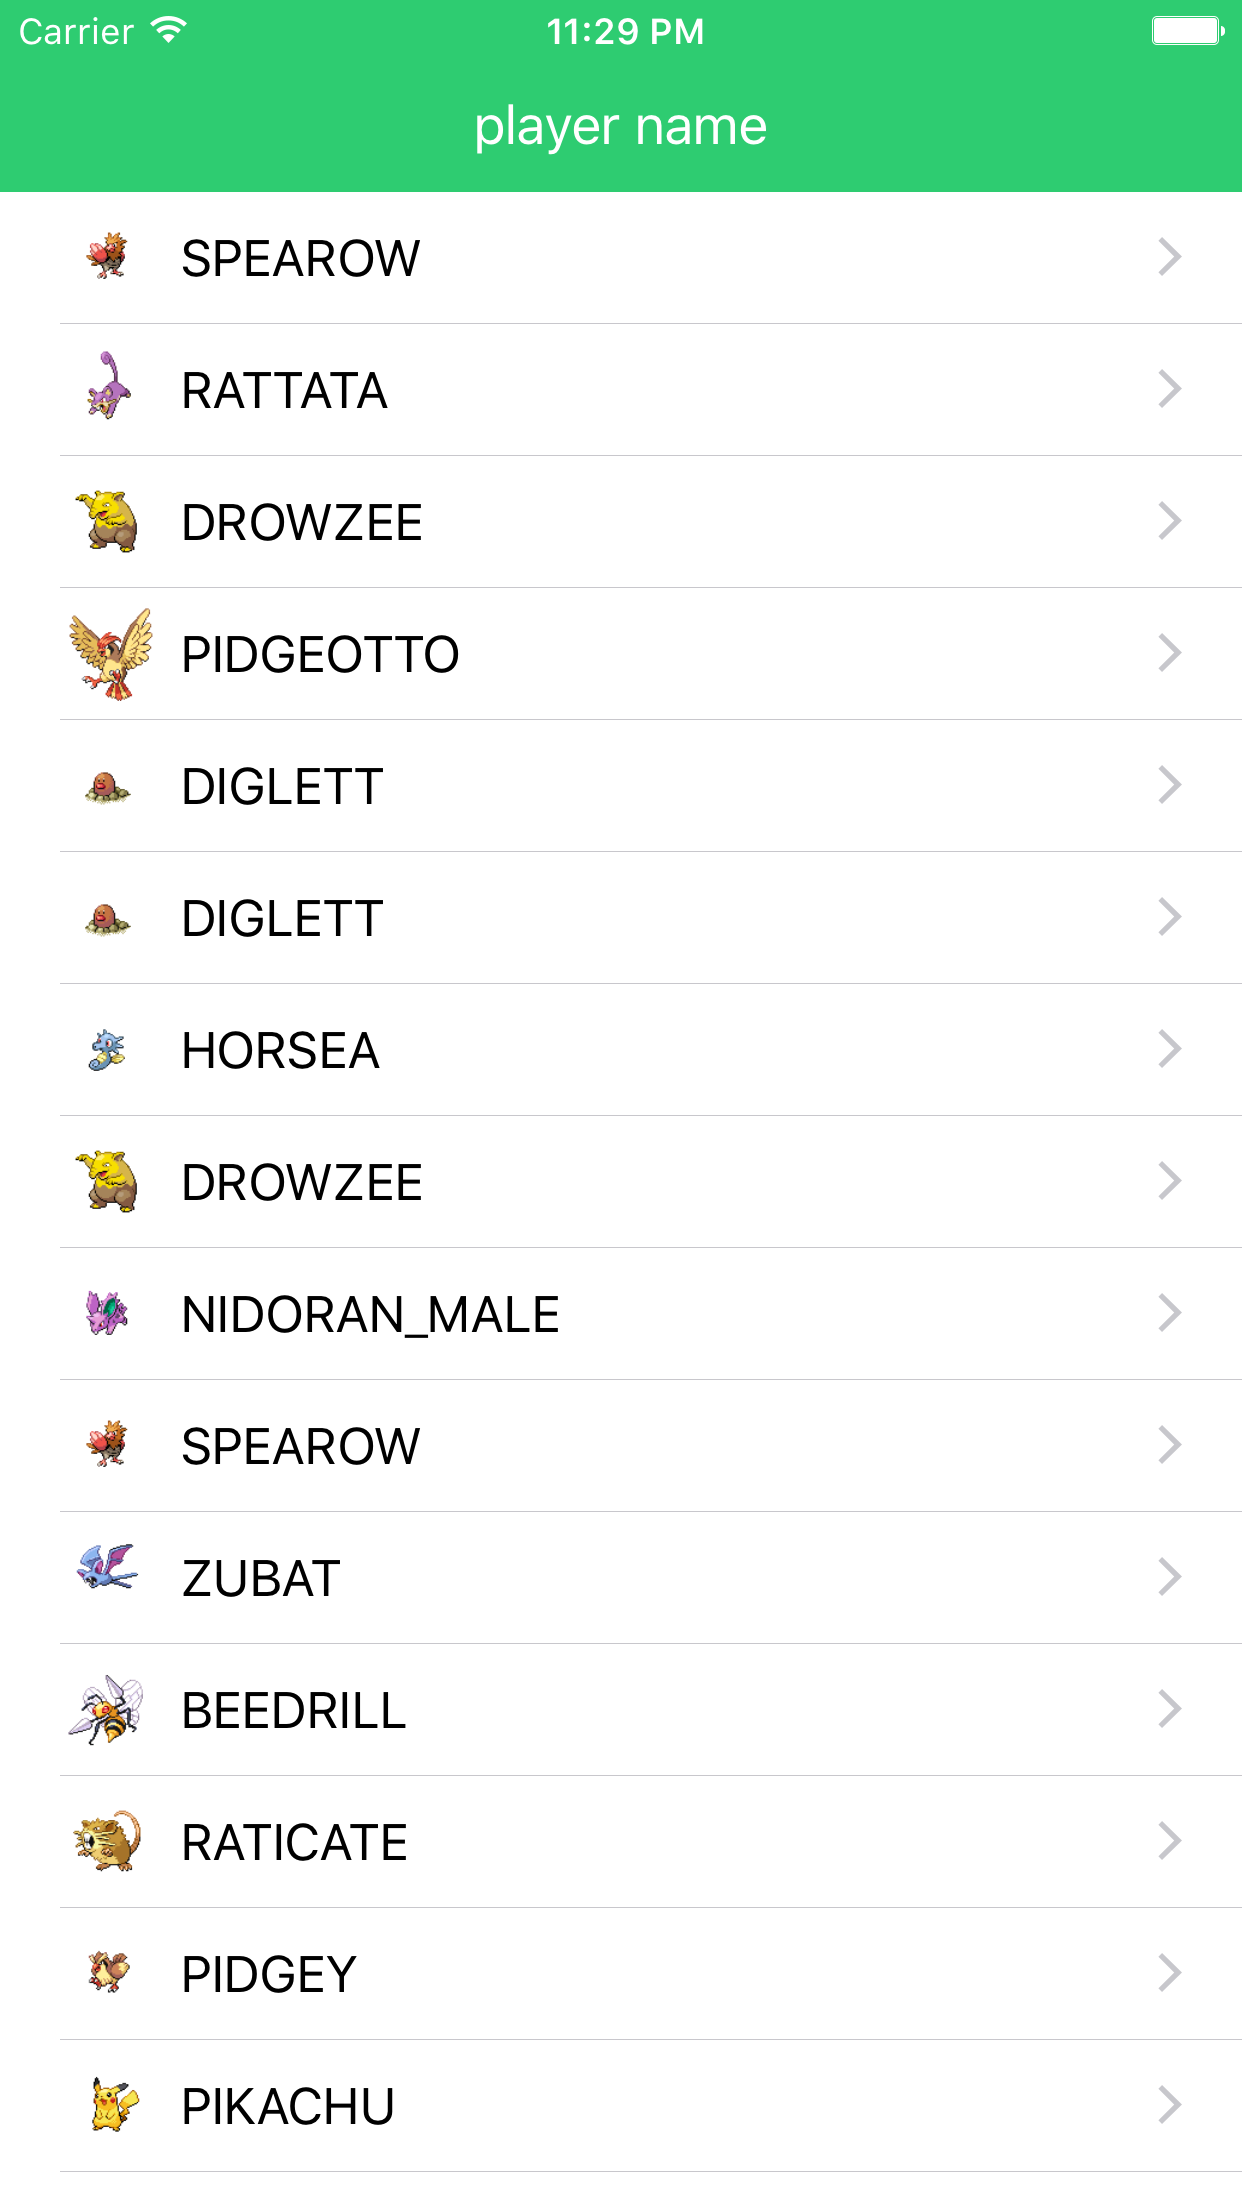
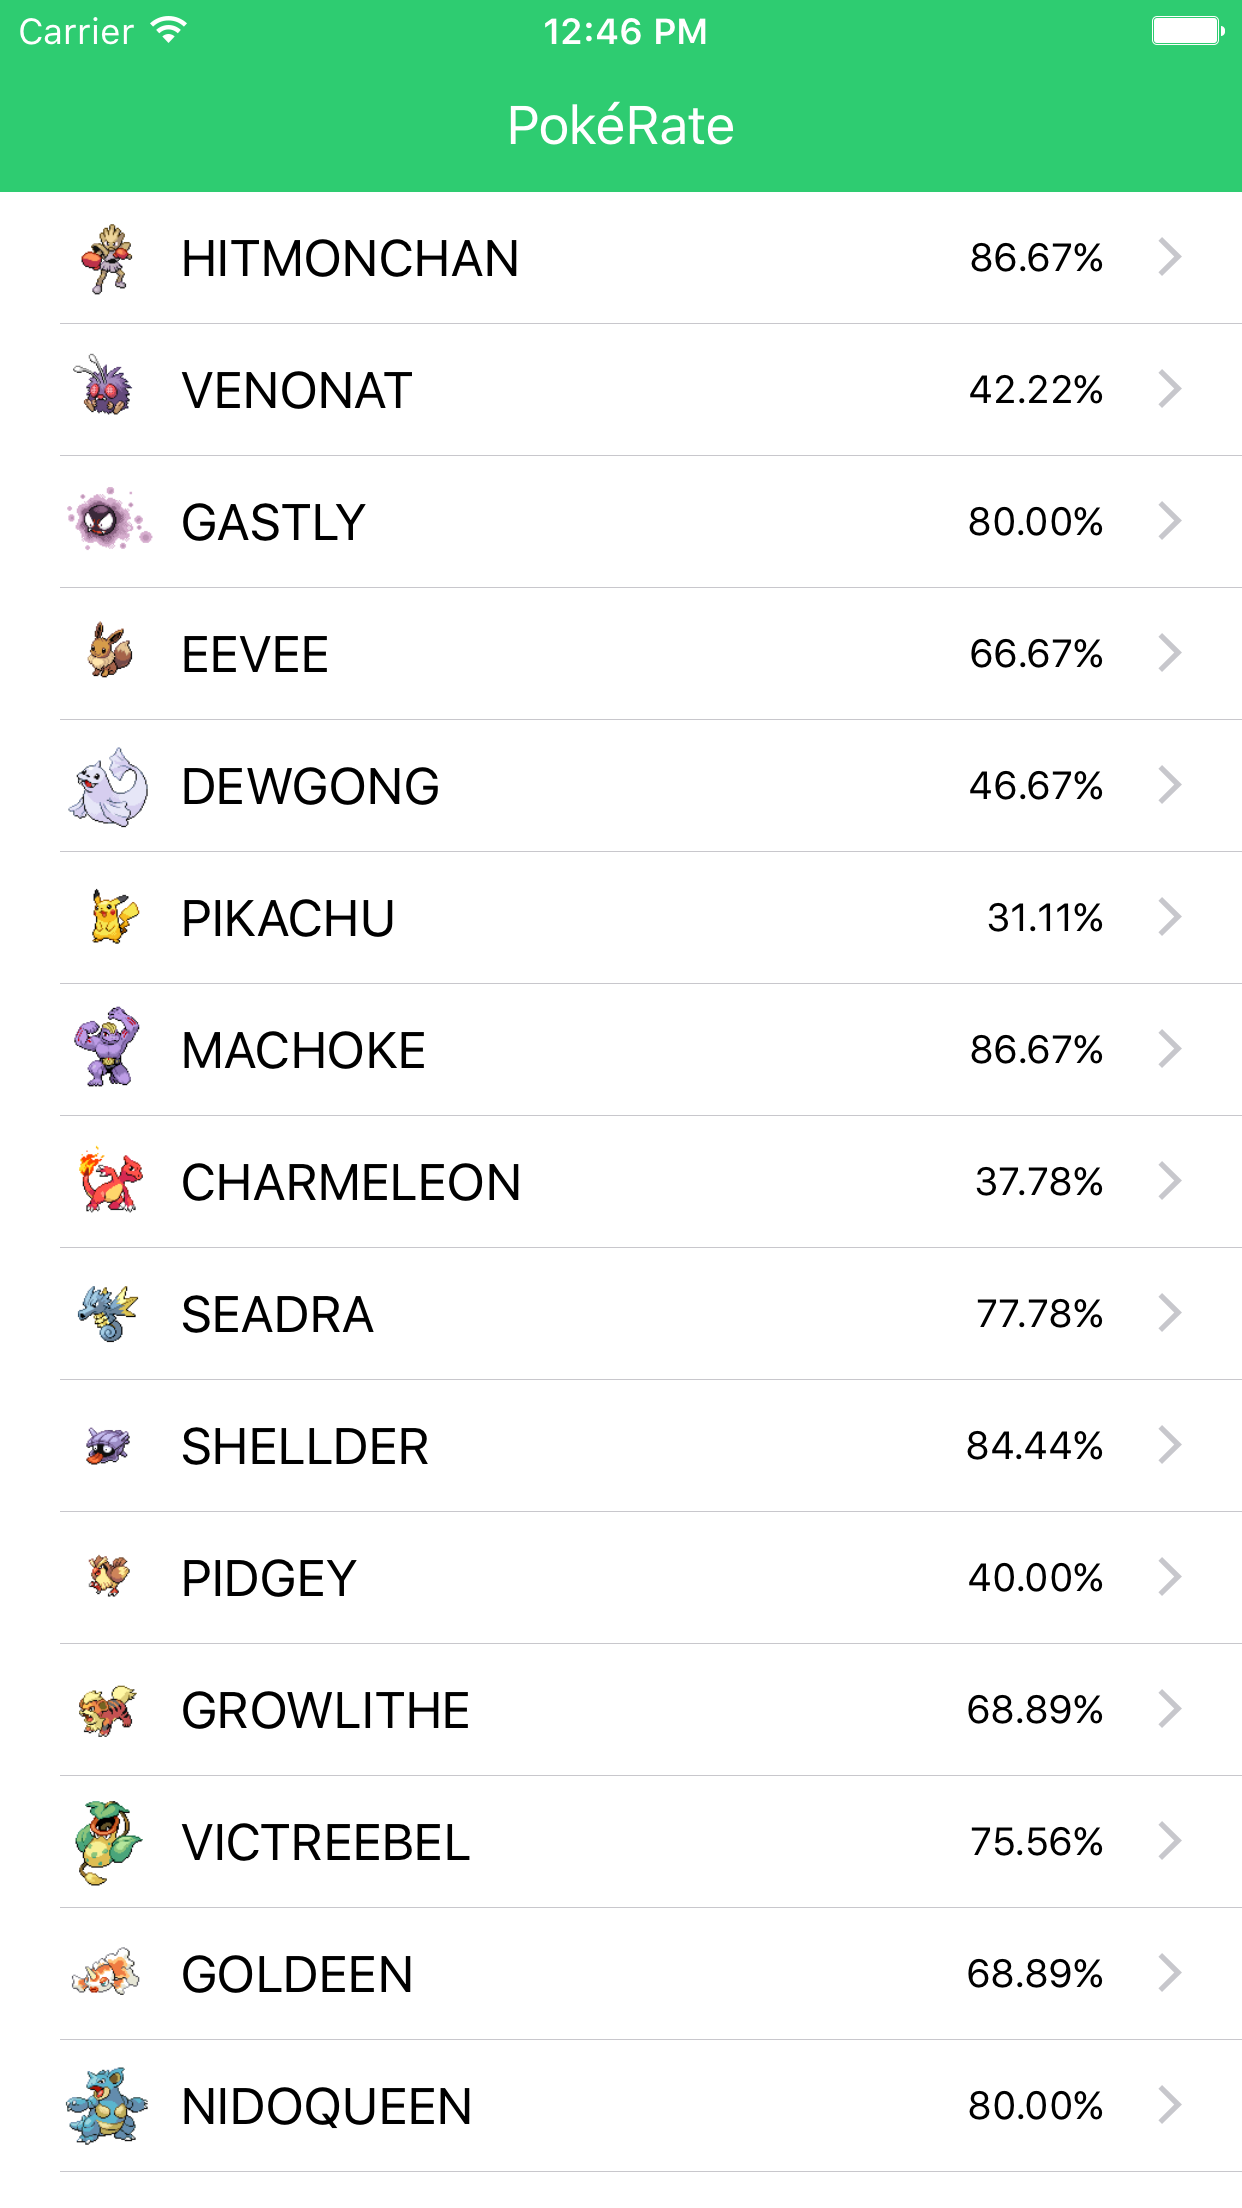
Updated readme

diff --git a/README.md b/README.md
@@ -9,7 +9,7 @@ Using the initial implementation of the Pokémon GO API on Swift by [Luke Sapan]
 ### To Do
 
 - [x] Pokémon Trainer Club login
-- [ ] Google login
+- [x] Google login
 - [x] Show Pokémon
 - [ ] Display Pokémon full details
-- [ ] Calculate %
+- [x] Calculate %
